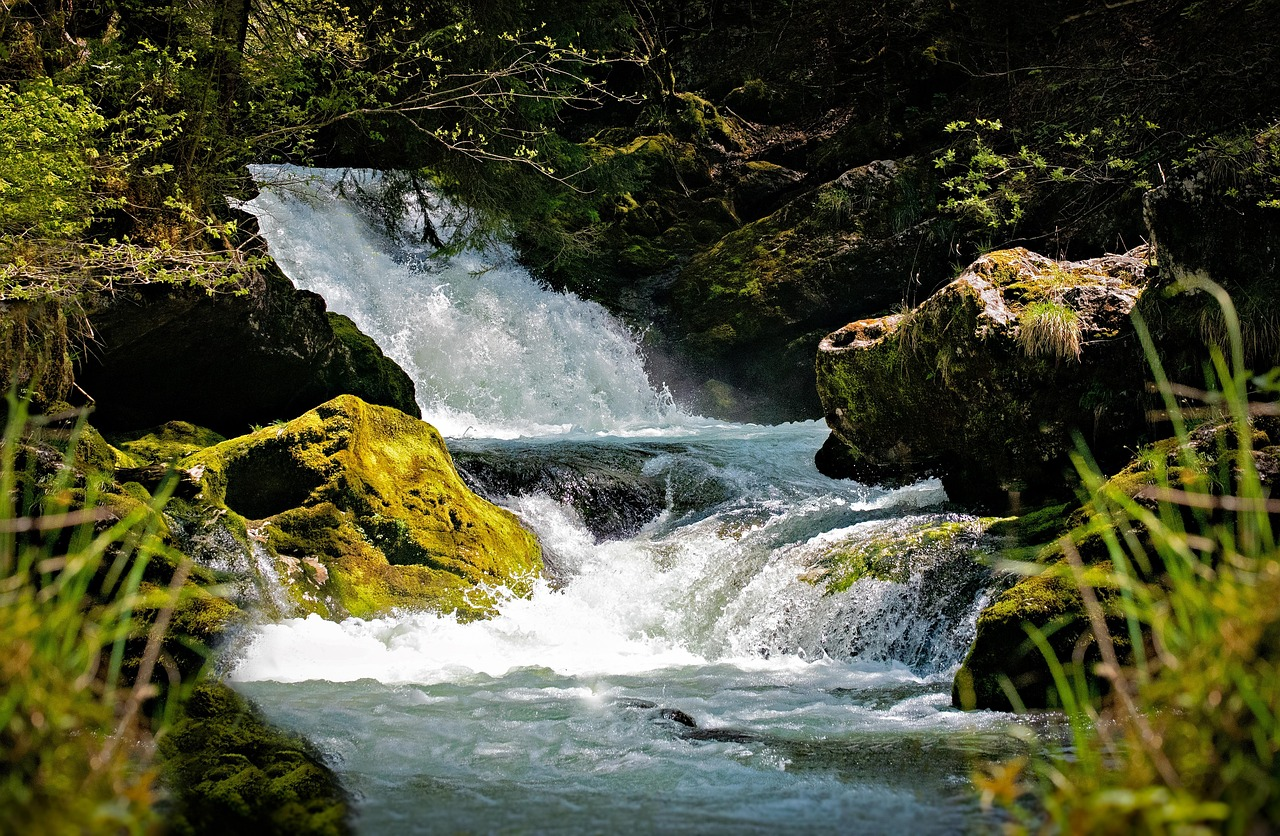
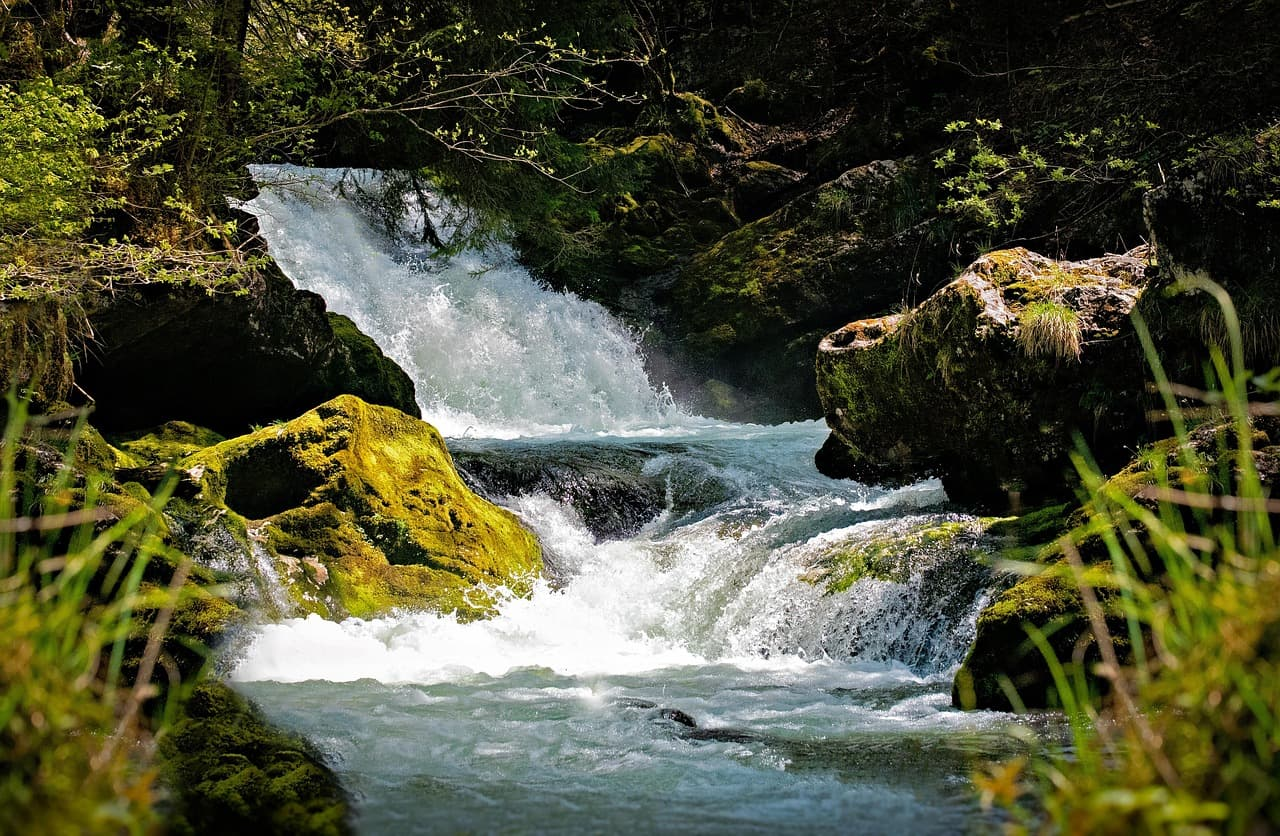
reduce picture size

diff --git a/client/src/App.jsx b/client/src/App.jsx
@@ -53,7 +53,7 @@ export default function App() {
         toggleBgMusic={() => setBgPlaying((prev) => !prev)}
       />
 
-      <main style={{ flex: 1, padding: "0 6rem 2rem" }}>
+      <main className="main-content">
         {activePage === "meditation" && <MeditationPage
           bgPlaying={bgPlaying}
           toggleBgMusic={() => setBgPlaying((prev) => !prev)}

diff --git a/client/src/Components/Affirmations/Affirmations.jsx b/client/src/Components/Affirmations/Affirmations.jsx
@@ -1,7 +1,7 @@
 import { useState, useEffect } from "react";
 import "./Affirmations.css";
 
-const images = Array.from({ length: 10 }, (_, i) => `/img/af${i + 1}.png`);
+const images = Array.from({ length: 10 }, (_, i) => `/img/af${i + 1}.jpg`);
 
 export default function AffirmationSlider() {
   const [current, setCurrent] = useState(0);

diff --git a/client/src/index.css b/client/src/index.css
@@ -62,6 +62,17 @@ button:focus-visible {
   animation: fadeInUp 0.3s ease-out forwards;
 }
 
+.main-content {
+  flex: 1;
+  padding: 0 6rem 2rem;
+}
+
+@media (max-width: 768px) {
+  .main-content {
+    padding: 0 3rem 1rem;
+  }
+}
+
 @keyframes fadeInUp {
   to {
     opacity: 1;

diff --git a/client/src/Components/Affirmations/Affirmations.css b/client/src/Components/Affirmations/Affirmations.css
@@ -36,12 +36,6 @@
   object-fit: contain;
 }
 
-@media (max-width: 768px) {
-  .slider-image {
-    max-width: 70%;
-  }
-}
-
 @keyframes fadeIn {
   from {
     opacity: 0;
